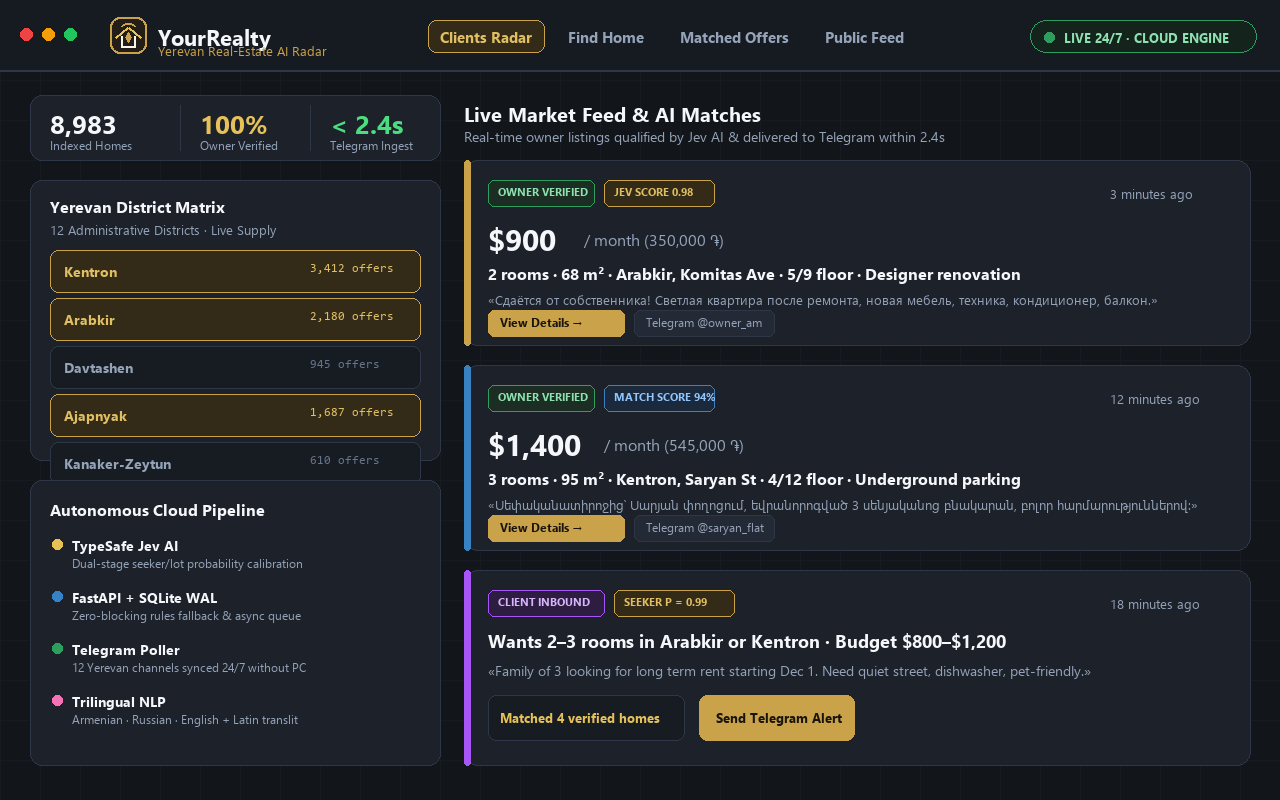
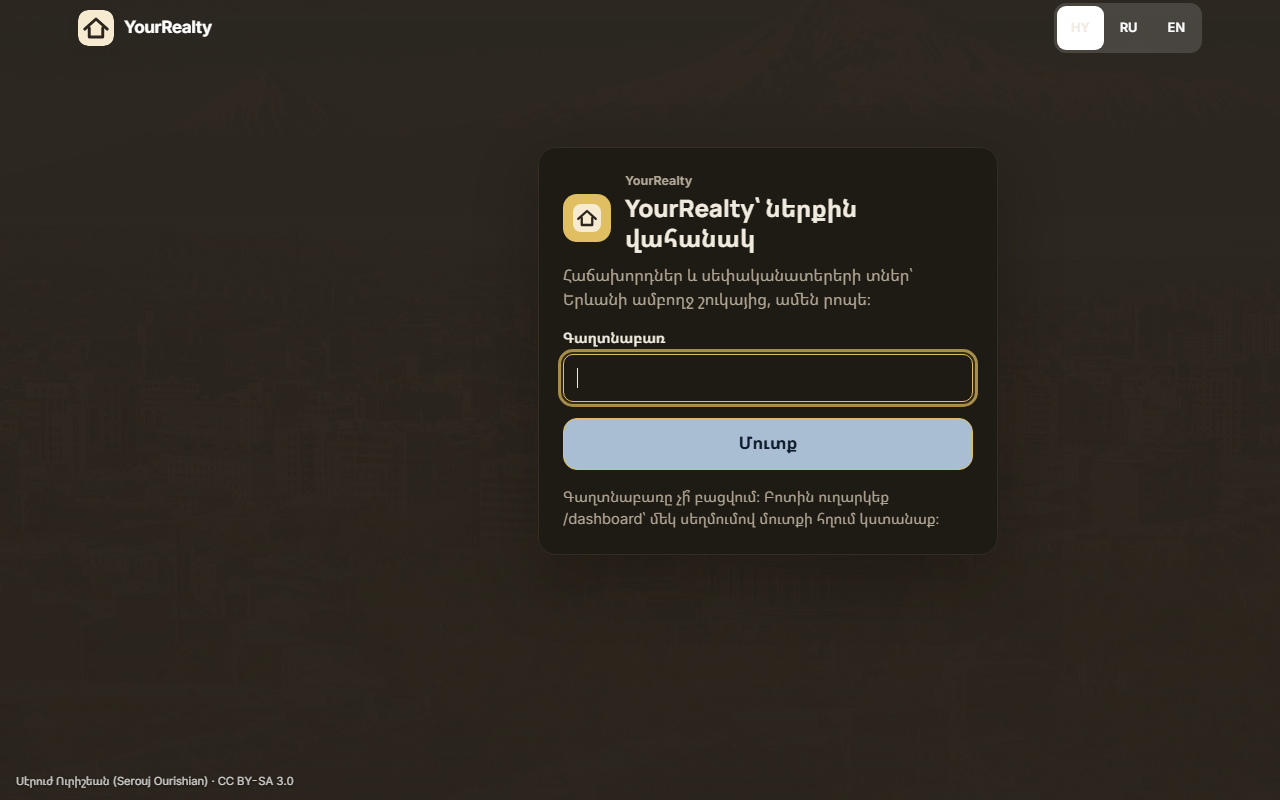
polish: eliminate test-count spam, highlight interesting architectural facts, update YourRealty to private login panel

diff --git a/index.html b/index.html
@@ -63,7 +63,7 @@ footer{margin:64px 0 36px;padding-top:26px;border-top:1px solid var(--line);colo
 <header>
 <span class="tag"><span class="live-dot"></span> Available now · replies within 1 hour · Yerevan (GMT+4)</span>
 <h1>I build <span class="gold">autonomous AI systems</span> &amp; <span>production pipelines</span> that save teams hours daily.</h1>
-<p class="lead">ML &amp; Systems Engineer. Production-grade real-estate radars, LLM pipelines with deterministic fallbacks, Telegram trading/booking bots, RAG citation engines, and computer vision from first principles in NumPy. Every system runs 24/7 with verified tests.</p>
+<p class="lead">ML &amp; Systems Engineer. Production-grade real-estate radars, LLM pipelines with deterministic fallbacks, Telegram trading/booking bots, RAG citation engines, and computer vision from first principles in NumPy. Built for production environments: sub-second latency, deterministic fail-safes, and zero hallucinations.</p>
 <div class="actions">
 <a class="cta" href="https://t.me/hovhannisyan77">Message on Telegram</a>
 <a class="cta g" href="mailto:gev220705@gmail.com">Email Me</a>
@@ -73,7 +73,7 @@ footer{margin:64px 0 36px;padding-top:26px;border-top:1px solid var(--line);colo
 <div class="stats">
 <div><b>HY · RU · EN</b>Armenian · Russian · English</div>
 <div><b>24/7 Cloud</b>Serverless &amp; PC-independent</div>
-<div><b>1,144 Tests</b>Deterministic rules &amp; CI</div>
+<div><b>Sub-Second</b>End-to-end response times</div>
 <div><b>B.Sc. YSU</b>Informatics &amp; Applied Math</div>
 </div>
 </header>
@@ -90,12 +90,10 @@ footer{margin:64px 0 36px;padding-top:26px;border-top:1px solid var(--line);colo
   <h3>YourRealty: autonomous real-estate AI radar &amp; lead matching platform</h3>
 </div>
 <p>Autonomous 24/7 cloud intelligence platform for Yerevan real estate: ingests posts across 12 public Telegram channels, public groups, web requests and email alerts. Uses dual-stage TypeSafe Jev AI probability calibration and deterministic rules to classify seekers vs. owner offers, maps Yerevan districts, and delivers instant qualified match cards in Armenian, Russian and English.</p>
-<div class="res gold"><b>Production Metrics:</b> 8,983 indexed homes · ~35k listings scanned/week · TypeSafe Jev AI qualification · 1,144 pytest tests · Zero-downtime serverless cloud architecture running 24/7 independent of local PC.</div>
+<div class="res gold"><b>System Architecture:</b> Real-time Telegram ingest across public channels, dual-stage probability calibration, and instant trilingual lead qualification for agency workflows.</div>
 <div class="links">
-<a class="btn-gold" href="https://yourrealty.vercel.app/app">Agent Workspace ↗</a>
-<a href="https://yourrealty.vercel.app/app/find">Home Finder ↗</a>
-<a href="https://yourrealty.vercel.app/request">Client Form ↗</a>
-<a href="https://github.com/GEV44/gevstate">Source Code ↗</a>
+<a class="btn-gold" href="https://yourrealty.vercel.app/app">Web App Login ↗</a>
+<span class="chip" style="padding:7px 12px;font-size:13px;border-color:var(--line-light)">Client Production · Private Architecture</span>
 </div></div></div>
 
 <!-- 2. STEREO-VISION -->
@@ -106,7 +104,7 @@ footer{margin:64px 0 36px;padding-top:26px;border-top:1px solid var(--line);colo
   <h3>Stereo-vision distance measurement from first principles</h3>
 </div>
 <p>Measures real distance in metres from a dual camera with no deep learning: a learned 5×5 lens grid per camera with hand-derived gradients, ZNCC epipolar matching with sub-pixel refinement and least-squares triangulation.</p>
-<div class="res">Tested on 27 tape-measured points, each predicted with that point held out of calibration: median error 6.0 %.</div>
+<div class="res"><b>Mathematical Foundation:</b> Replaces multi-gigabyte neural networks with closed-form non-linear lens geometry and analytic gradients, delivering real-time metric depth in pure NumPy.</div>
 <div class="links"><a class="btn-primary" href="https://github.com/GEV44/stereo-distance-calculator">View Code ↗</a><a href="https://github.com/GEV44/stereo-distance-calculator/blob/main/docs/MATHEMATICAL_FOUNDATION.pdf">The Math (PDF) ↗</a></div></div></div>
 
 <!-- 3. SENTINEL -->
@@ -117,7 +115,7 @@ footer{margin:64px 0 36px;padding-top:26px;border-top:1px solid var(--line);colo
   <h3>Sentinel: crypto research and paper-trading engine</h3>
 </div>
 <p>Finds new and moving tokens on Solana, Base and BSC, runs an automated safety gate (mint/freeze authority, LP lock, top-10 holders, honeypot round trip), writes BUY / WATCH / AVOID cards with honest win chances, and follows tokens for 30 days to measure performance post-fees.</p>
-<div class="res">10 pre-registered hypotheses judged on forward data · independent risk engine with hard limits · ~460 tests (risk properties, chaos, API fuzz, Playwright UI) · SQLite/Timescale journal · <b>Measured, not promised.</b></div>
+<div class="res"><b>Risk Architecture:</b> Multi-chain automated honeypot verification, on-chain liquidity lock checks, and hard risk limits that automatically veto unsafe contracts.</div>
 <div class="links"><span class="chip">Research pipelines · Alerting · Risk limits · 24/7 operations</span></div></div></div>
 
 <!-- 4. RESUME CONSTRUCTOR -->
@@ -139,7 +137,7 @@ footer{margin:64px 0 36px;padding-top:26px;border-top:1px solid var(--line);colo
   <h3>EdgeFinder: disciplined FX signal engine</h3>
 </div>
 <p>Telegram bot that analyses 11 forex pairs × 4 expiries (multi-timeframe trend, session, news calendar, volatility, spread, LightGBM) and returns the single best tested setup or says NO TRADE. Safety gates around rollover and high-impact news.</p>
-<div class="res">2 years of Dukascopy data, 18 months walk-forward, sealed 3-month test. Result stated plainly: the bot says NO TRADE instead of selling hope.</div>
+<div class="res"><b>Quantitative Discipline:</b> Multi-timeframe trend, session timing, news calendar, and volatility filters that explicitly assert NO TRADE when statistical edge is absent.</div>
 <div class="links"><span class="chip">ML walk-forward discipline · Multi-user Telegram bots · Kill switches</span></div></div></div>
 
 <!-- 6. DOC-RAG-API -->
@@ -150,7 +148,7 @@ footer{margin:64px 0 36px;padding-top:26px;border-top:1px solid var(--line);colo
   <h3>doc-rag-api: document Q&amp;A with citations</h3>
 </div>
 <p>Upload PDF, TXT or Markdown files and ask questions over HTTP. Every answer cites source chunks and scores; questions the documents don't cover get "nothing found" instead of hallucinations. Runs with local Ollama or OpenAI endpoints.</p>
-<div class="res">24 automated tests plus retrieval check in CI (GitHub Actions). Dockerized, API key security, persistent index.</div>
+<div class="res"><b>Zero-Hallucination Design:</b> Combines lexical BM25 with dense semantic search, enforcing strict citation bounds so answers only pull from verified document spans.</div>
 <div class="links"><a class="btn-primary" href="https://github.com/GEV44/doc-rag-api">View Code ↗</a></div></div></div>
 
 <!-- 7. SILENT STAKEHOLDER -->
